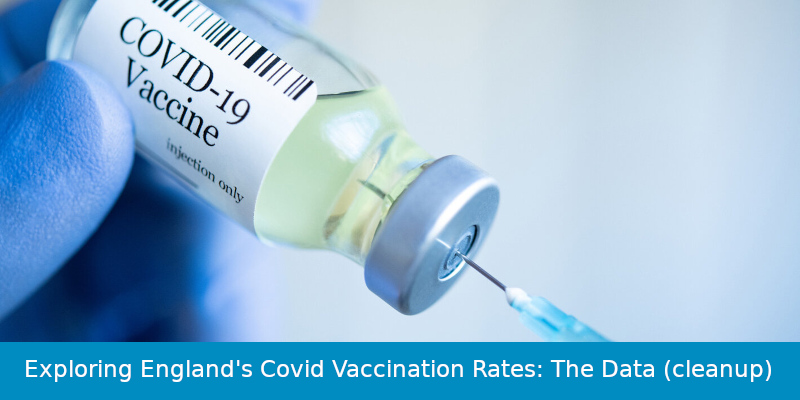
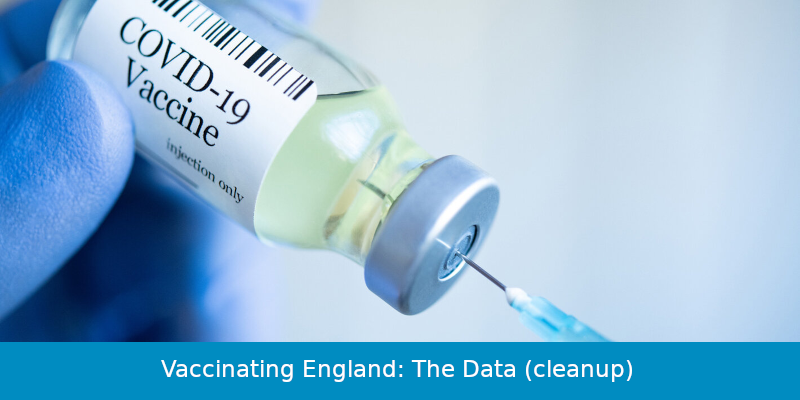
better title

Changed region(s): [[0.0312, 0.9, 0.9688, 0.96]]

diff --git a/blog/2021/04/17/england-covid-vaccination-rates-the-data/index.html b/blog/2021/04/17/england-covid-vaccination-rates-the-data/index.html
@@ -7,7 +7,7 @@
         <meta charset="utf-8" />
         <meta http-equiv="X-UA-Compatible" content="IE=edge" />
 
-        <meta property="og:title" content=" Exploring England&#39;s Covid Vaccination Rates: The Data (cleanup) &middot;  Mark Needham" />
+        <meta property="og:title" content=" Vaccinating England: The Data (cleanup) &middot;  Mark Needham" />
         <meta property="og:site_name" content="Mark Needham" />
         <meta property="og:url" content="https://www.markhneedham.com/blog/2021/04/17/england-covid-vaccination-rates-the-data/" />
 
@@ -23,7 +23,7 @@
         <meta name="twitter:card" content="summary_large_image" />
         <meta name="twitter:site" content="@markhneedham" />
         <meta name="twitter:creator" content="@markhneedham" />
-        <meta name="twitter:title" content="Exploring England&#39;s Covid Vaccination Rates: The Data (cleanup)" />
+        <meta name="twitter:title" content="Vaccinating England: The Data (cleanup)" />
         
           <meta name="twitter:description" content="In this post we&#39;ll learn how to extract data about England&#39;s Covid vaccinations from a Public Health England spreadsheet." />
         
@@ -38,7 +38,7 @@
 
     
 
-        <title> Exploring England&#39;s Covid Vaccination Rates: The Data (cleanup) &middot;  Mark Needham</title>
+        <title> Vaccinating England: The Data (cleanup) &middot;  Mark Needham</title>
 
     
         <meta name="description" content="In this post we&#39;ll learn how to extract data about England&#39;s Covid vaccinations from a Public Health England spreadsheet." />
@@ -64,7 +64,7 @@
     {
         "@context": "http://schema.org",
         "@type": "Article",
-        "headline": "Exploring England\x27s Covid Vaccination Rates: The Data (cleanup)",
+        "headline": "Vaccinating England: The Data (cleanup)",
         "author": {
             "@type": "Person",
             "name": "http://profiles.google.com/100354797468725665406?rel=author"
@@ -192,7 +192,7 @@ tbody tr pre {margin-bottom: 27px}
         
         </span>
     </div>
-    <h1 class="post-title">Exploring England&#39;s Covid Vaccination Rates: The Data (cleanup)</h1>
+    <h1 class="post-title">Vaccinating England: The Data (cleanup)</h1>
     <div class="paragraph">
 <p>Over the last 13 months I&#8217;ve spent countless hours looking at dashboards that showed Coronavirus infection rates, death rates, and numbers of people vaccinated.
 The UK government host a dashboard at <a href="https://coronavirus.data.gov.uk" target="_blank" rel="noopener">coronavirus.data.gov.uk</a>, which contains charts and tables showing all of the above.</p>
@@ -1764,7 +1764,7 @@ vaccination_rates_by_region = vaccination_rates_by_region.convert_dtypes()</code
     <div id="social-bar">
 	<ul class="rrssb-buttons clearfix">
       <li class="email">
-          <a href="mailto:?subject=Exploring%20England%27s%20Covid%20Vaccination%20Rates%3a%20The%20Data%20%28cleanup%29&amp;body=https://www.markhneedham.com/blog/2021/04/17/england-covid-vaccination-rates-the-data/">
+          <a href="mailto:?subject=Vaccinating%20England%3a%20The%20Data%20%28cleanup%29&amp;body=https://www.markhneedham.com/blog/2021/04/17/england-covid-vaccination-rates-the-data/">
               <span class="icon">
                   <svg version="1.1" id="Layer_1" xmlns="http://www.w3.org/2000/svg" xmlns:xlink="http://www.w3.org/1999/xlink" x="0px" y="0px" width="28px" height="28px" viewBox="0 0 28 28" enable-background="new 0 0 28 28" xml:space="preserve">
                       <path transform="scale(0.014,-0.014) translate(0,-1670)" d="M1792 826v-794q0 -66 -47 -113t-113 -47h-1472q-66 0 -113 47t-47 113v794q44 -49 101 -87q362 -246 497 -345q57 -42 92.5 -65.5t94.5 -48t110 -24.5h1h1q51 0 110 24.5t94.5 48t92.5 65.5q170 123 498 345q57 39 100 87zM1792 1120q0 -79 -49 -151t-122 -123 q-376 -261 -468 -325q-10 -7 -42.5 -30.5t-54 -38t-52 -32.5t-57.5 -27t-50 -9h-1h-1q-23 0 -50 9t-57.5 27t-52 32.5t-54 38t-42.5 30.5q-91 64 -262 182.5t-205 142.5q-62 42 -117 115.5t-55 136.5q0 78 41.5 130t118.5 52h1472q65 0 112.5 -47t47.5 -113z"/>
@@ -1784,7 +1784,7 @@ vaccination_rates_by_region = vaccination_rates_by_region.convert_dtypes()</code
           </a>
       </li>
 			<li class="twitter">
-          <a href="http://twitter.com/home?status=Exploring%20England%27s%20Covid%20Vaccination%20Rates%3a%20The%20Data%20%28cleanup%29%20https://www.markhneedham.com/blog/2021/04/17/england-covid-vaccination-rates-the-data/" class="popup">
+          <a href="http://twitter.com/home?status=Vaccinating%20England%3a%20The%20Data%20%28cleanup%29%20https://www.markhneedham.com/blog/2021/04/17/england-covid-vaccination-rates-the-data/" class="popup">
               <span class="icon">
                   <svg version="1.1" id="Layer_1" xmlns="http://www.w3.org/2000/svg" xmlns:xlink="http://www.w3.org/1999/xlink" x="0px" y="0px" width="28px" height="28px" viewBox="0 0 28 28" enable-background="new 0 0 28 28" xml:space="preserve">
 		                  <path d="M24.253,8.756C24.689,17.08,18.297,24.182,9.97,24.62c-3.122,0.162-6.219-0.646-8.861-2.32 c2.703,0.179,5.376-0.648,7.508-2.321c-2.072-0.247-3.818-1.661-4.489-3.638c0.801,0.128,1.62,0.076,2.399-0.155 C4.045,15.72,2.215,13.6,2.115,11.077c0.688,0.275,1.426,0.407,2.168,0.386c-2.135-1.65-2.729-4.621-1.394-6.965 C5.575,7.816,9.54,9.84,13.803,10.071c-0.842-2.739,0.694-5.64,3.434-6.482c2.018-0.623,4.212,0.044,5.546,1.683 c1.186-0.213,2.318-0.662,3.329-1.317c-0.385,1.256-1.247,2.312-2.399,2.942c1.048-0.106,2.069-0.394,3.019-0.851 C26.275,7.229,25.39,8.196,24.253,8.756z"/>
@@ -1794,7 +1794,7 @@ vaccination_rates_by_region = vaccination_rates_by_region.convert_dtypes()</code
           </a>
       </li>
 			<li class="linkedin">
-          <a href="http://www.linkedin.com/shareArticle?mini=true&amp;url=https://www.markhneedham.com/blog/2021/04/17/england-covid-vaccination-rates-the-data/&amp;title=Exploring%20England%27s%20Covid%20Vaccination%20Rates%3a%20The%20Data%20%28cleanup%29&amp;summary=Over%20the%20last%2013%20months%20I%26%238217%3bve%20spent%20countless%20hours%20looking%20at%20dashboards%20that%20showed%20Coronavirus%20infection%20rates%2c%20death%20rates%2c%20and%20numbers%20of%20people%20vaccinated.%20The%20UK%20government%20host%20a%20dashboard%20at%20coronavirus.data.gov.uk%2c%20which%20contains%20charts%20and%20tables%20showing%20all%20of%20the%20above.%0a%20One%20thing%20I%20haven%26%238217%3bt%20been%20able%20to%20find%2c%20however%2c%20is%20a%20drill%20down%20of%20vaccinations%20by%20local%20area%20and%20age%20group.%20So%20I%26%238217%3bm%20going%20to%20try%20to%20build%20my%20own%21..." class="popup">
+          <a href="http://www.linkedin.com/shareArticle?mini=true&amp;url=https://www.markhneedham.com/blog/2021/04/17/england-covid-vaccination-rates-the-data/&amp;title=Vaccinating%20England%3a%20The%20Data%20%28cleanup%29&amp;summary=Over%20the%20last%2013%20months%20I%26%238217%3bve%20spent%20countless%20hours%20looking%20at%20dashboards%20that%20showed%20Coronavirus%20infection%20rates%2c%20death%20rates%2c%20and%20numbers%20of%20people%20vaccinated.%20The%20UK%20government%20host%20a%20dashboard%20at%20coronavirus.data.gov.uk%2c%20which%20contains%20charts%20and%20tables%20showing%20all%20of%20the%20above.%0a%20One%20thing%20I%20haven%26%238217%3bt%20been%20able%20to%20find%2c%20however%2c%20is%20a%20drill%20down%20of%20vaccinations%20by%20local%20area%20and%20age%20group.%20So%20I%26%238217%3bm%20going%20to%20try%20to%20build%20my%20own%21..." class="popup">
               <span class="icon">
                   <svg version="1.1" id="Layer_1" xmlns="http://www.w3.org/2000/svg" xmlns:xlink="http://www.w3.org/1999/xlink" x="0px" y="0px" width="28px" height="28px" viewBox="0 0 28 28" enable-background="new 0 0 28 28" xml:space="preserve">
                       <path d="M25.424,15.887v8.447h-4.896v-7.882c0-1.979-0.709-3.331-2.48-3.331c-1.354,0-2.158,0.911-2.514,1.803 c-0.129,0.315-0.162,0.753-0.162,1.194v8.216h-4.899c0,0,0.066-13.349,0-14.731h4.899v2.088c-0.01,0.016-0.023,0.032-0.033,0.048 h0.033V11.69c0.65-1.002,1.812-2.435,4.414-2.435C23.008,9.254,25.424,11.361,25.424,15.887z M5.348,2.501 c-1.676,0-2.772,1.092-2.772,2.539c0,1.421,1.066,2.538,2.717,2.546h0.032c1.709,0,2.771-1.132,2.771-2.546 C8.054,3.593,7.019,2.501,5.343,2.501H5.348z M2.867,24.334h4.897V9.603H2.867V24.334z"/>
@@ -1805,7 +1805,7 @@ vaccination_rates_by_region = vaccination_rates_by_region.convert_dtypes()</code
       </li>
       <li class="tumblr">
 					<script>
-						document.write('<a href="http://www.tumblr.com/share?v=3&amp;u=' + encodeURIComponent('https:\/\/www.markhneedham.com\/blog\/2021\/04\/17\/england-covid-vaccination-rates-the-data\/') + '&amp;t=Exploring England\x27s Covid Vaccination Rates: The Data (cleanup)" class="popup">');
+						document.write('<a href="http://www.tumblr.com/share?v=3&amp;u=' + encodeURIComponent('https:\/\/www.markhneedham.com\/blog\/2021\/04\/17\/england-covid-vaccination-rates-the-data\/') + '&amp;t=Vaccinating England: The Data (cleanup)" class="popup">');
 					</script>
               <span class="icon">
                   <svg xmlns="http://www.w3.org/2000/svg" xmlns:xlink="http://www.w3.org/1999/xlink" version="1.1" x="0px" y="0px" width="28px" height="28px" viewBox="0 0 28 28" enable-background="new 0 0 28 28" xml:space="preserve">
@@ -1850,7 +1850,7 @@ vaccination_rates_by_region = vaccination_rates_by_region.convert_dtypes()</code
 						if (firstimg !== undefined) {
 							imgurl = firstimg.src;
 						}
-						document.write('<a href="http://pinterest.com/pin/create/button/?url=https:\/\/www.markhneedham.com\/blog\/2021\/04\/17\/england-covid-vaccination-rates-the-data\/&amp;media=' + imgurl + '&amp;description=Exploring England\x27s Covid Vaccination Rates: The Data (cleanup)" class="popup">');
+						document.write('<a href="http://pinterest.com/pin/create/button/?url=https:\/\/www.markhneedham.com\/blog\/2021\/04\/17\/england-covid-vaccination-rates-the-data\/&amp;media=' + imgurl + '&amp;description=Vaccinating England: The Data (cleanup)" class="popup">');
 					</script>
               <span class="icon">
                   <svg version="1.1" id="Layer_1" xmlns="http://www.w3.org/2000/svg" xmlns:xlink="http://www.w3.org/1999/xlink" x="0px" y="0px" width="28px" height="28px" viewBox="0 0 28 28" enable-background="new 0 0 28 28" xml:space="preserve">
@@ -1888,7 +1888,7 @@ vaccination_rates_by_region = vaccination_rates_by_region.convert_dtypes()</code
     <script type="text/javascript">
       var disqus_shortname = 'markhneedham';
       var disqus_identifier = 'https:\/\/www.markhneedham.com\/blog\/2021\/04\/17\/england-covid-vaccination-rates-the-data\/';
-      var disqus_title = 'Exploring England\x27s Covid Vaccination Rates: The Data (cleanup)';
+      var disqus_title = 'Vaccinating England: The Data (cleanup)';
       var disqus_url = 'https:\/\/www.markhneedham.com\/blog\/2021\/04\/17\/england-covid-vaccination-rates-the-data\/';
       (function() {
         if (window.location.hostname == "localhost")

diff --git a/blog/2021/index.html b/blog/2021/index.html
@@ -165,7 +165,7 @@ tbody tr pre {margin-bottom: 27px}
         
 <section class="2021">
 	<h3 class="post-title">
-		<a href="https://www.markhneedham.com/blog/2021/04/17/england-covid-vaccination-rates-the-data/">Exploring England&#39;s Covid Vaccination Rates: The Data (cleanup)</a>
+		<a href="https://www.markhneedham.com/blog/2021/04/17/england-covid-vaccination-rates-the-data/">Vaccinating England: The Data (cleanup)</a>
 		<span class="separator"> &middot; </span>
 		<time datetime="2021-04-17T00:44:37Z">
             17 Apr 2021

diff --git a/blog/category/python/index.html b/blog/category/python/index.html
@@ -165,7 +165,7 @@ tbody tr pre {margin-bottom: 27px}
         
 <section class="2021">
 	<h3 class="post-title">
-		<a href="https://www.markhneedham.com/blog/2021/04/17/england-covid-vaccination-rates-the-data/">Exploring England&#39;s Covid Vaccination Rates: The Data (cleanup)</a>
+		<a href="https://www.markhneedham.com/blog/2021/04/17/england-covid-vaccination-rates-the-data/">Vaccinating England: The Data (cleanup)</a>
 		<span class="separator"> &middot; </span>
 		<time datetime="2021-04-17T00:44:37Z">
             17 Apr 2021

diff --git a/blog/index.html b/blog/index.html
@@ -165,7 +165,7 @@ tbody tr pre {margin-bottom: 27px}
         
 <section class="2021">
 	<h3 class="post-title">
-		<a href="https://www.markhneedham.com/blog/2021/04/17/england-covid-vaccination-rates-the-data/">Exploring England&#39;s Covid Vaccination Rates: The Data (cleanup)</a>
+		<a href="https://www.markhneedham.com/blog/2021/04/17/england-covid-vaccination-rates-the-data/">Vaccinating England: The Data (cleanup)</a>
 		<span class="separator"> &middot; </span>
 		<time datetime="2021-04-17T00:44:37Z">
             17 Apr 2021

diff --git a/blog/tag/altair/index.html b/blog/tag/altair/index.html
@@ -165,7 +165,7 @@ tbody tr pre {margin-bottom: 27px}
         
 <section class="2021">
 	<h3 class="post-title">
-		<a href="https://www.markhneedham.com/blog/2021/04/17/england-covid-vaccination-rates-the-data/">Exploring England&#39;s Covid Vaccination Rates: The Data (cleanup)</a>
+		<a href="https://www.markhneedham.com/blog/2021/04/17/england-covid-vaccination-rates-the-data/">Vaccinating England: The Data (cleanup)</a>
 		<span class="separator"> &middot; </span>
 		<time datetime="2021-04-17T00:44:37Z">
             17 Apr 2021

diff --git a/blog/tag/covid-vaccines/index.html b/blog/tag/covid-vaccines/index.html
@@ -141,7 +141,7 @@ tbody tr pre {margin-bottom: 27px}
         
 <section class="2021">
 	<h3 class="post-title">
-		<a href="https://www.markhneedham.com/blog/2021/04/17/england-covid-vaccination-rates-the-data/">Exploring England&#39;s Covid Vaccination Rates: The Data (cleanup)</a>
+		<a href="https://www.markhneedham.com/blog/2021/04/17/england-covid-vaccination-rates-the-data/">Vaccinating England: The Data (cleanup)</a>
 		<span class="separator"> &middot; </span>
 		<time datetime="2021-04-17T00:44:37Z">
             17 Apr 2021

diff --git a/blog/tag/pandas/index.html b/blog/tag/pandas/index.html
@@ -165,7 +165,7 @@ tbody tr pre {margin-bottom: 27px}
         
 <section class="2021">
 	<h3 class="post-title">
-		<a href="https://www.markhneedham.com/blog/2021/04/17/england-covid-vaccination-rates-the-data/">Exploring England&#39;s Covid Vaccination Rates: The Data (cleanup)</a>
+		<a href="https://www.markhneedham.com/blog/2021/04/17/england-covid-vaccination-rates-the-data/">Vaccinating England: The Data (cleanup)</a>
 		<span class="separator"> &middot; </span>
 		<time datetime="2021-04-17T00:44:37Z">
             17 Apr 2021

diff --git a/blog/tag/python/index.html b/blog/tag/python/index.html
@@ -165,7 +165,7 @@ tbody tr pre {margin-bottom: 27px}
         
 <section class="2021">
 	<h3 class="post-title">
-		<a href="https://www.markhneedham.com/blog/2021/04/17/england-covid-vaccination-rates-the-data/">Exploring England&#39;s Covid Vaccination Rates: The Data (cleanup)</a>
+		<a href="https://www.markhneedham.com/blog/2021/04/17/england-covid-vaccination-rates-the-data/">Vaccinating England: The Data (cleanup)</a>
 		<span class="separator"> &middot; </span>
 		<time datetime="2021-04-17T00:44:37Z">
             17 Apr 2021
